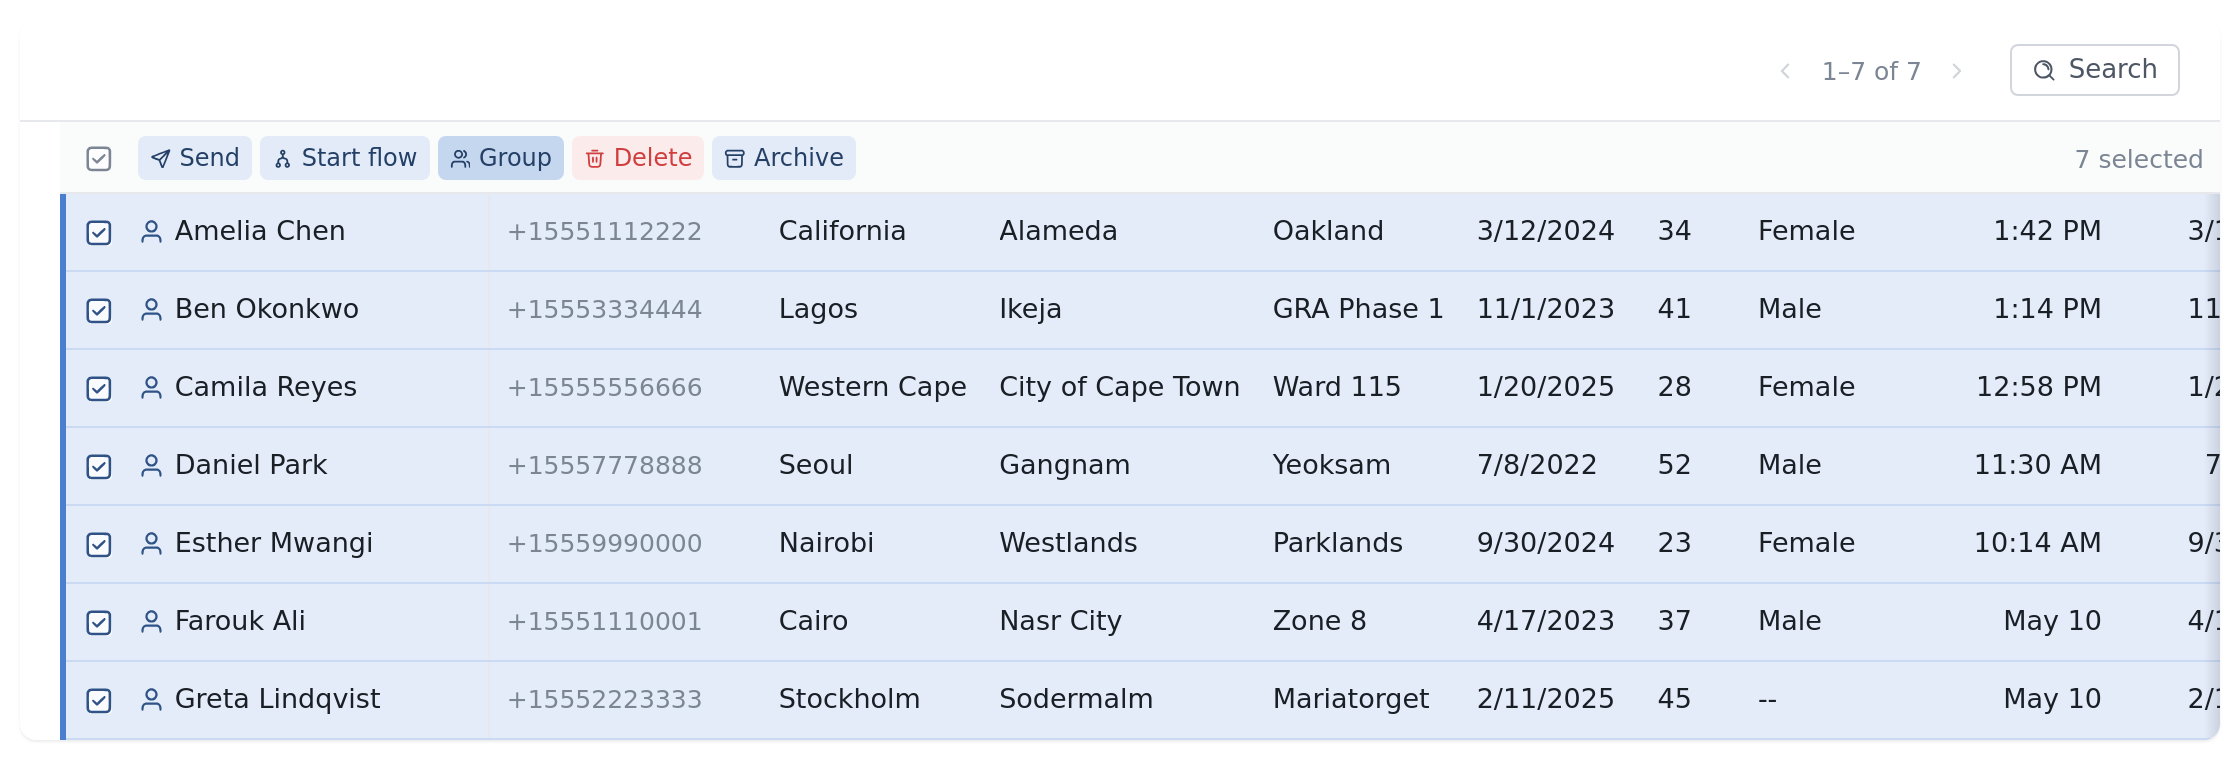
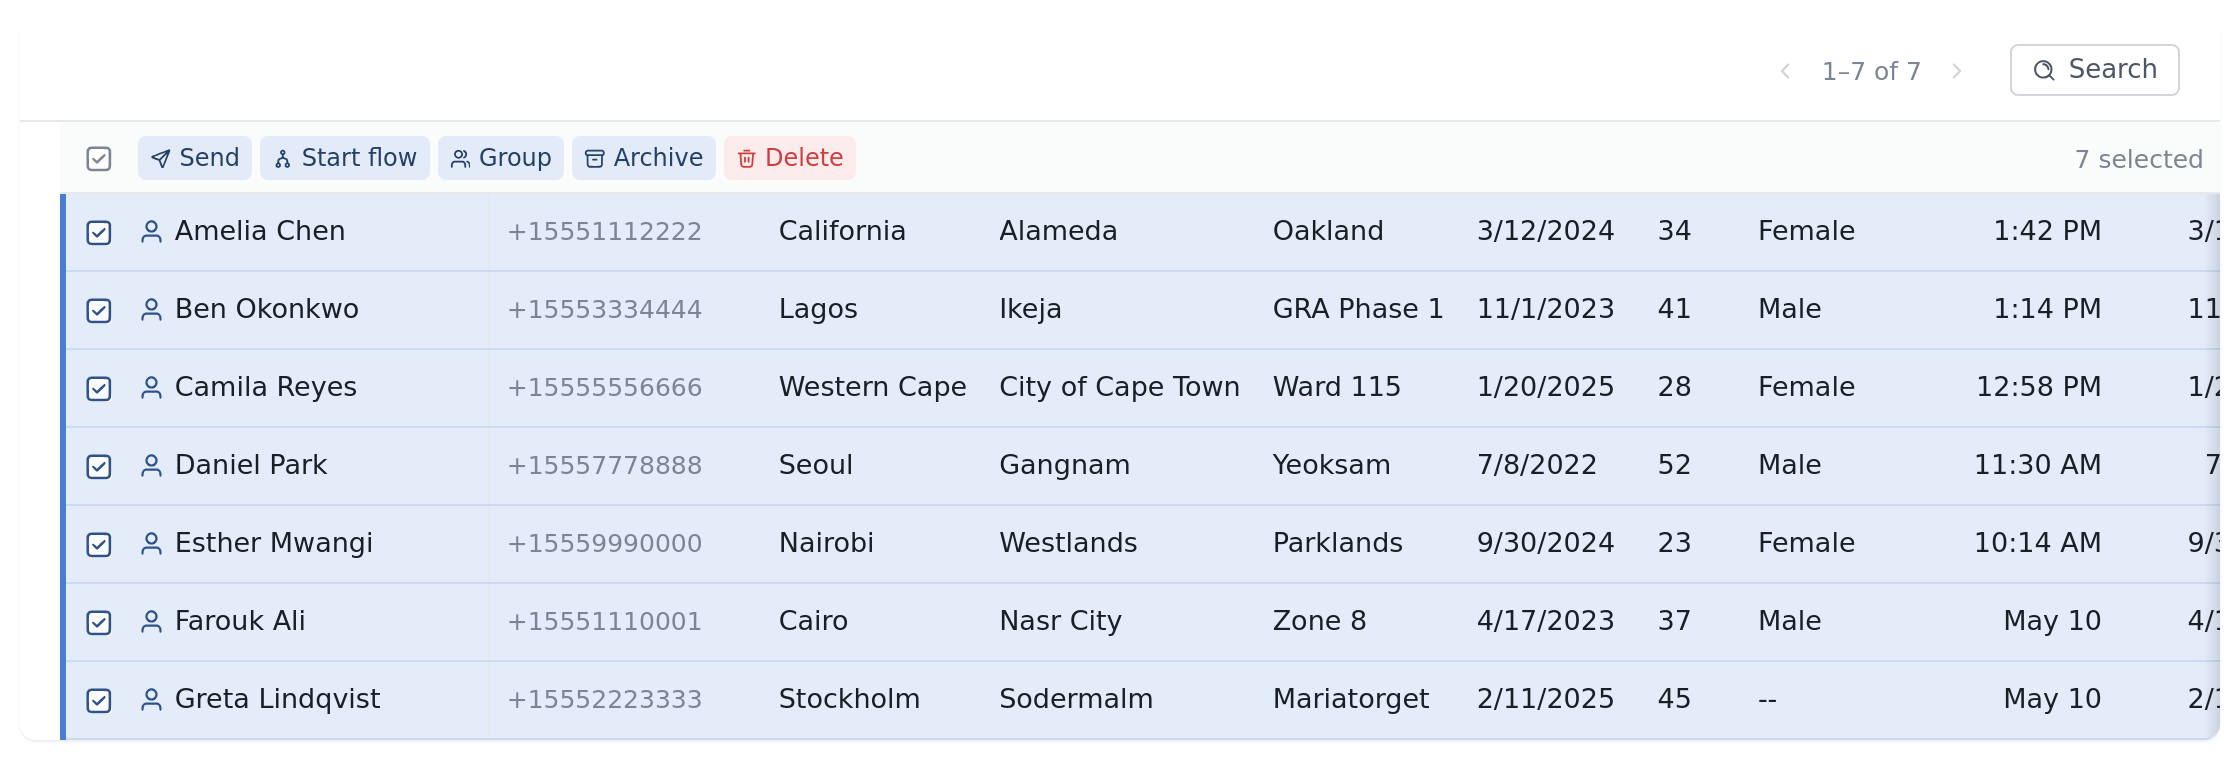
Keep Delete last, after Archive, in default bulk actions
Archive trails the reversible actions but Delete, when offered, always
goes last — restoring the original Archive/Delete order on the contact
and message list defaults.

diff --git a/src/list/ContactList.ts b/src/list/ContactList.ts
@@ -79,8 +79,10 @@ export class ContactList extends ContentList<Contact> {
         labelsEndpoint: '/api/v2/groups.json?manual_only=1',
         labelsKey: 'groups'
       },
-      { key: 'delete', label: 'Delete', icon: Icon.delete, destructive: true },
-      { key: 'archive', label: 'Archive', icon: Icon.archive }
+      // Archive trails the reversible actions; Delete, when offered,
+      // always goes last.
+      { key: 'archive', label: 'Archive', icon: Icon.archive },
+      { key: 'delete', label: 'Delete', icon: Icon.delete, destructive: true }
     ];
   }
 

diff --git a/src/list/MsgList.ts b/src/list/MsgList.ts
@@ -134,8 +134,10 @@ export class MsgList extends ContentList<Msg> {
         icon: Icon.label,
         labelsEndpoint: '/api/v2/labels.json'
       },
-      { key: 'delete', label: 'Delete', icon: Icon.delete, destructive: true },
-      { key: 'archive', label: 'Archive', icon: Icon.archive }
+      // Archive trails the reversible actions; Delete, when offered,
+      // always goes last.
+      { key: 'archive', label: 'Archive', icon: Icon.archive },
+      { key: 'delete', label: 'Delete', icon: Icon.delete, destructive: true }
     ];
   }
 
